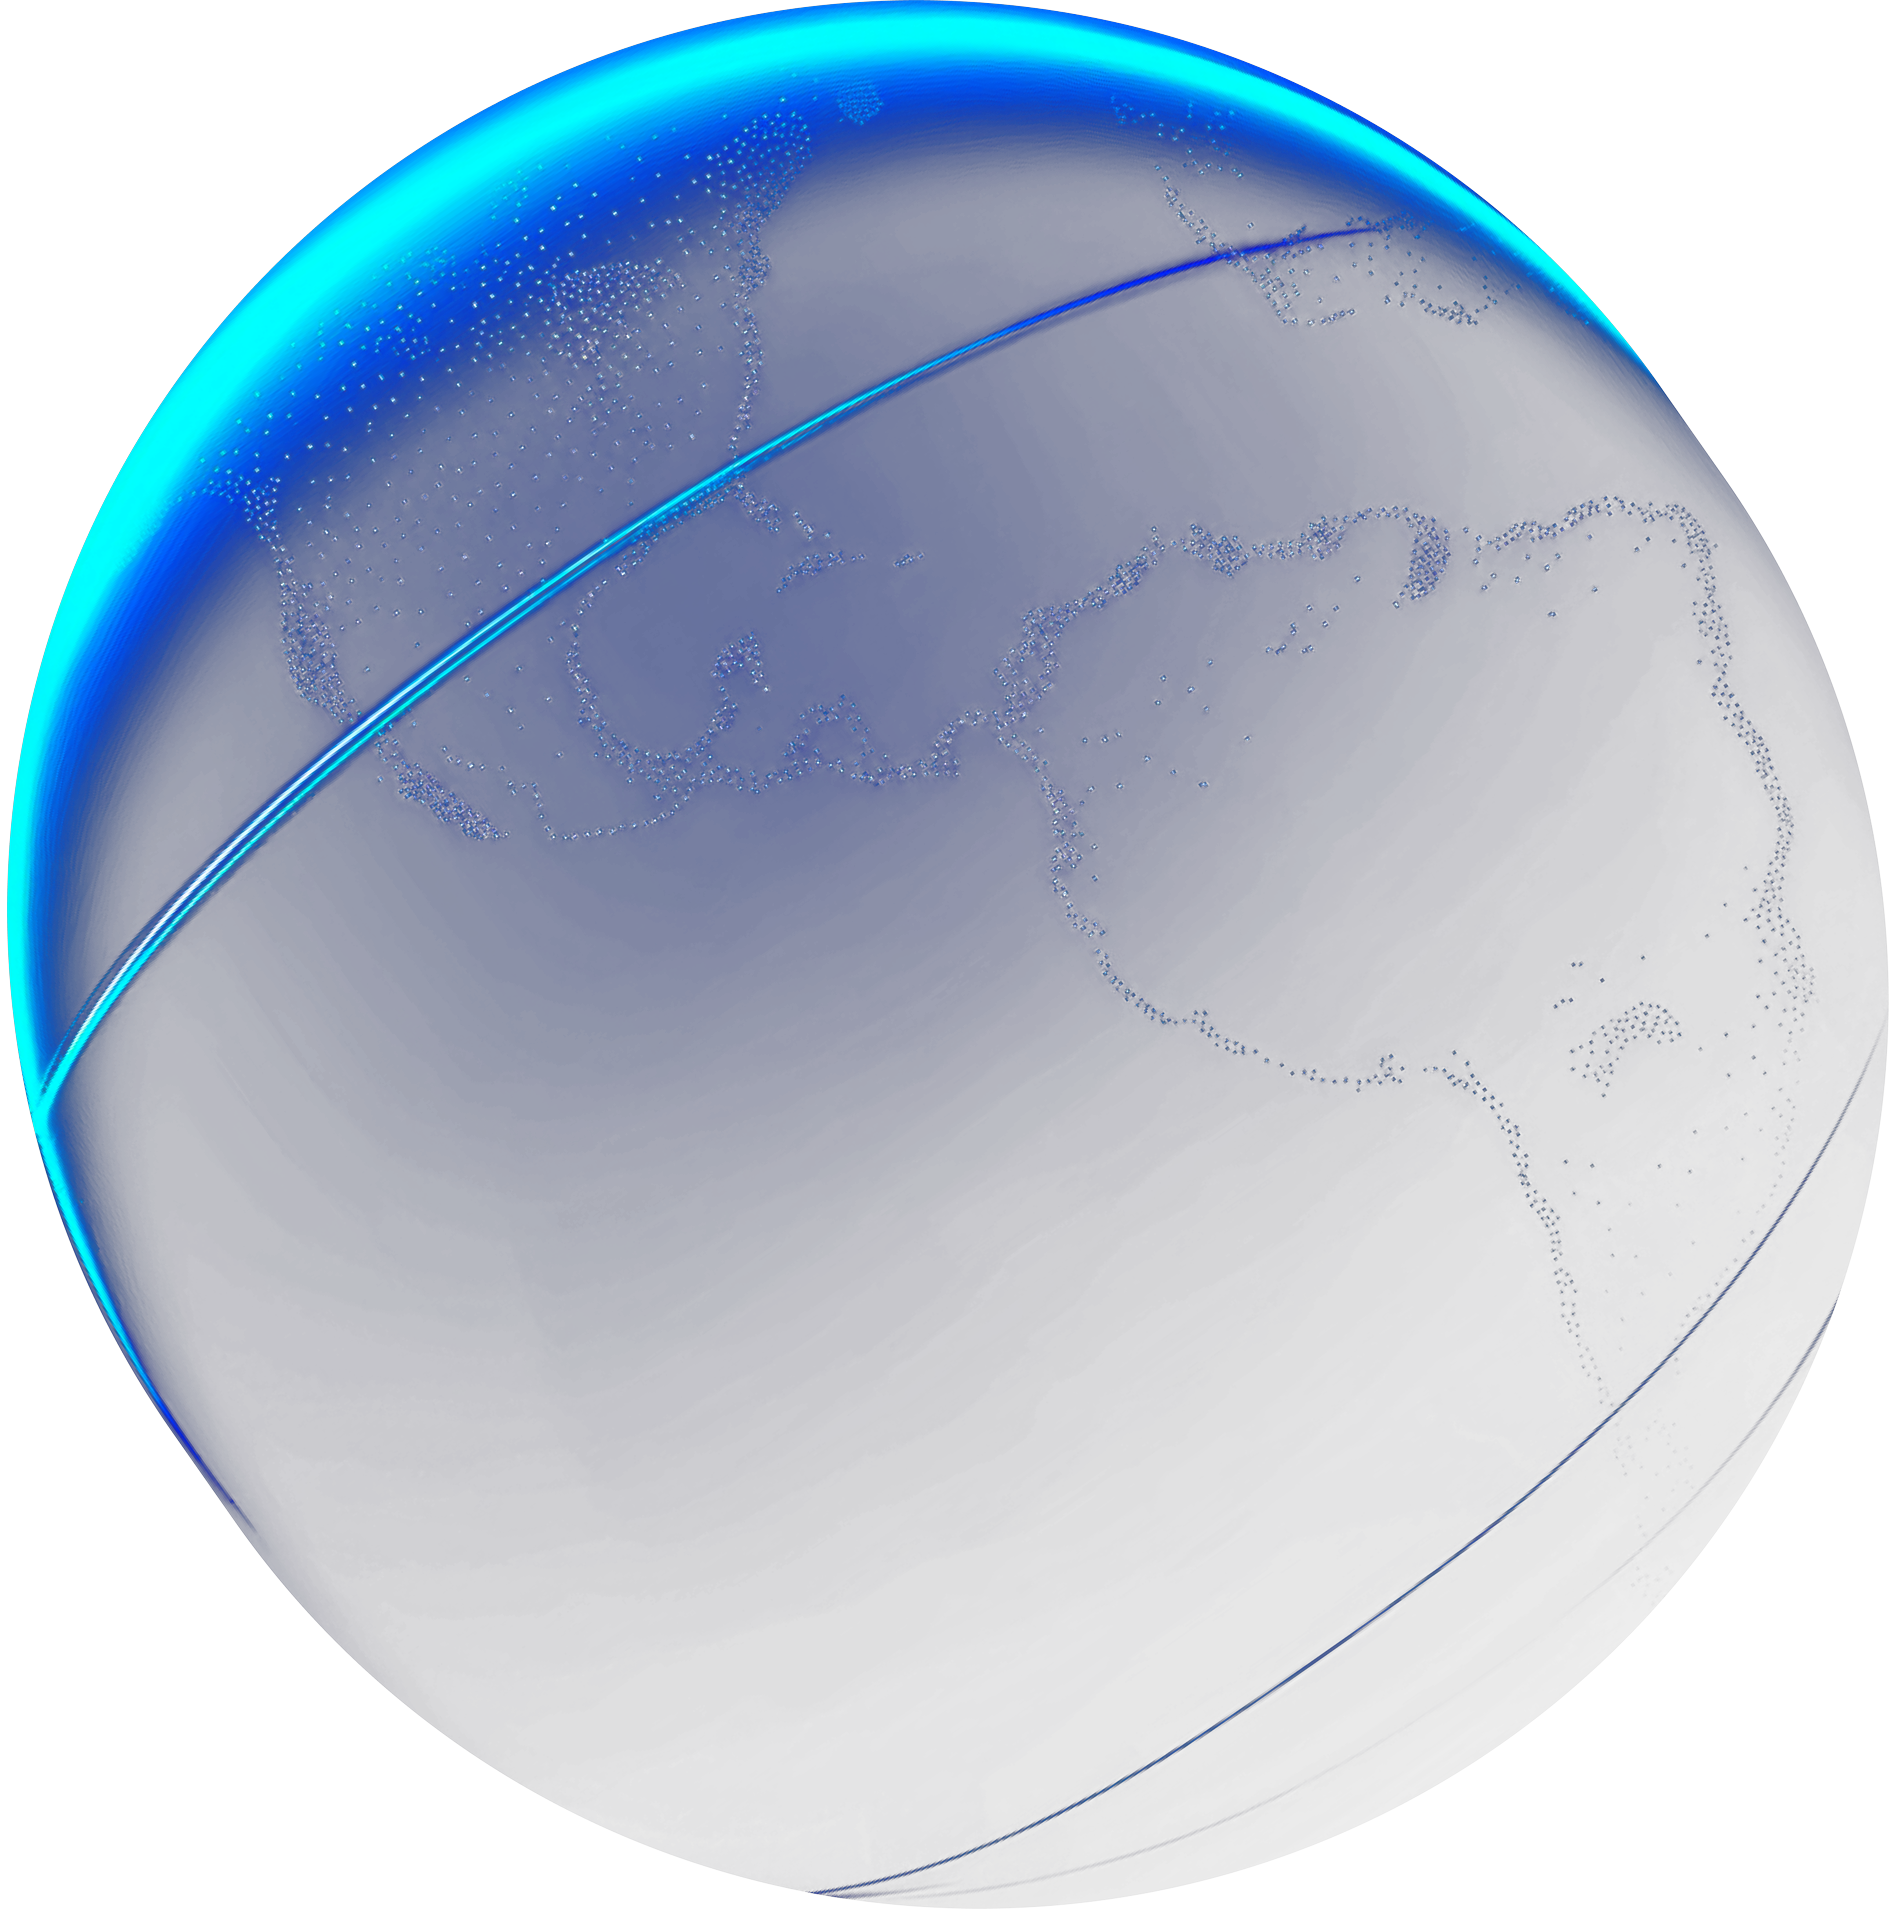
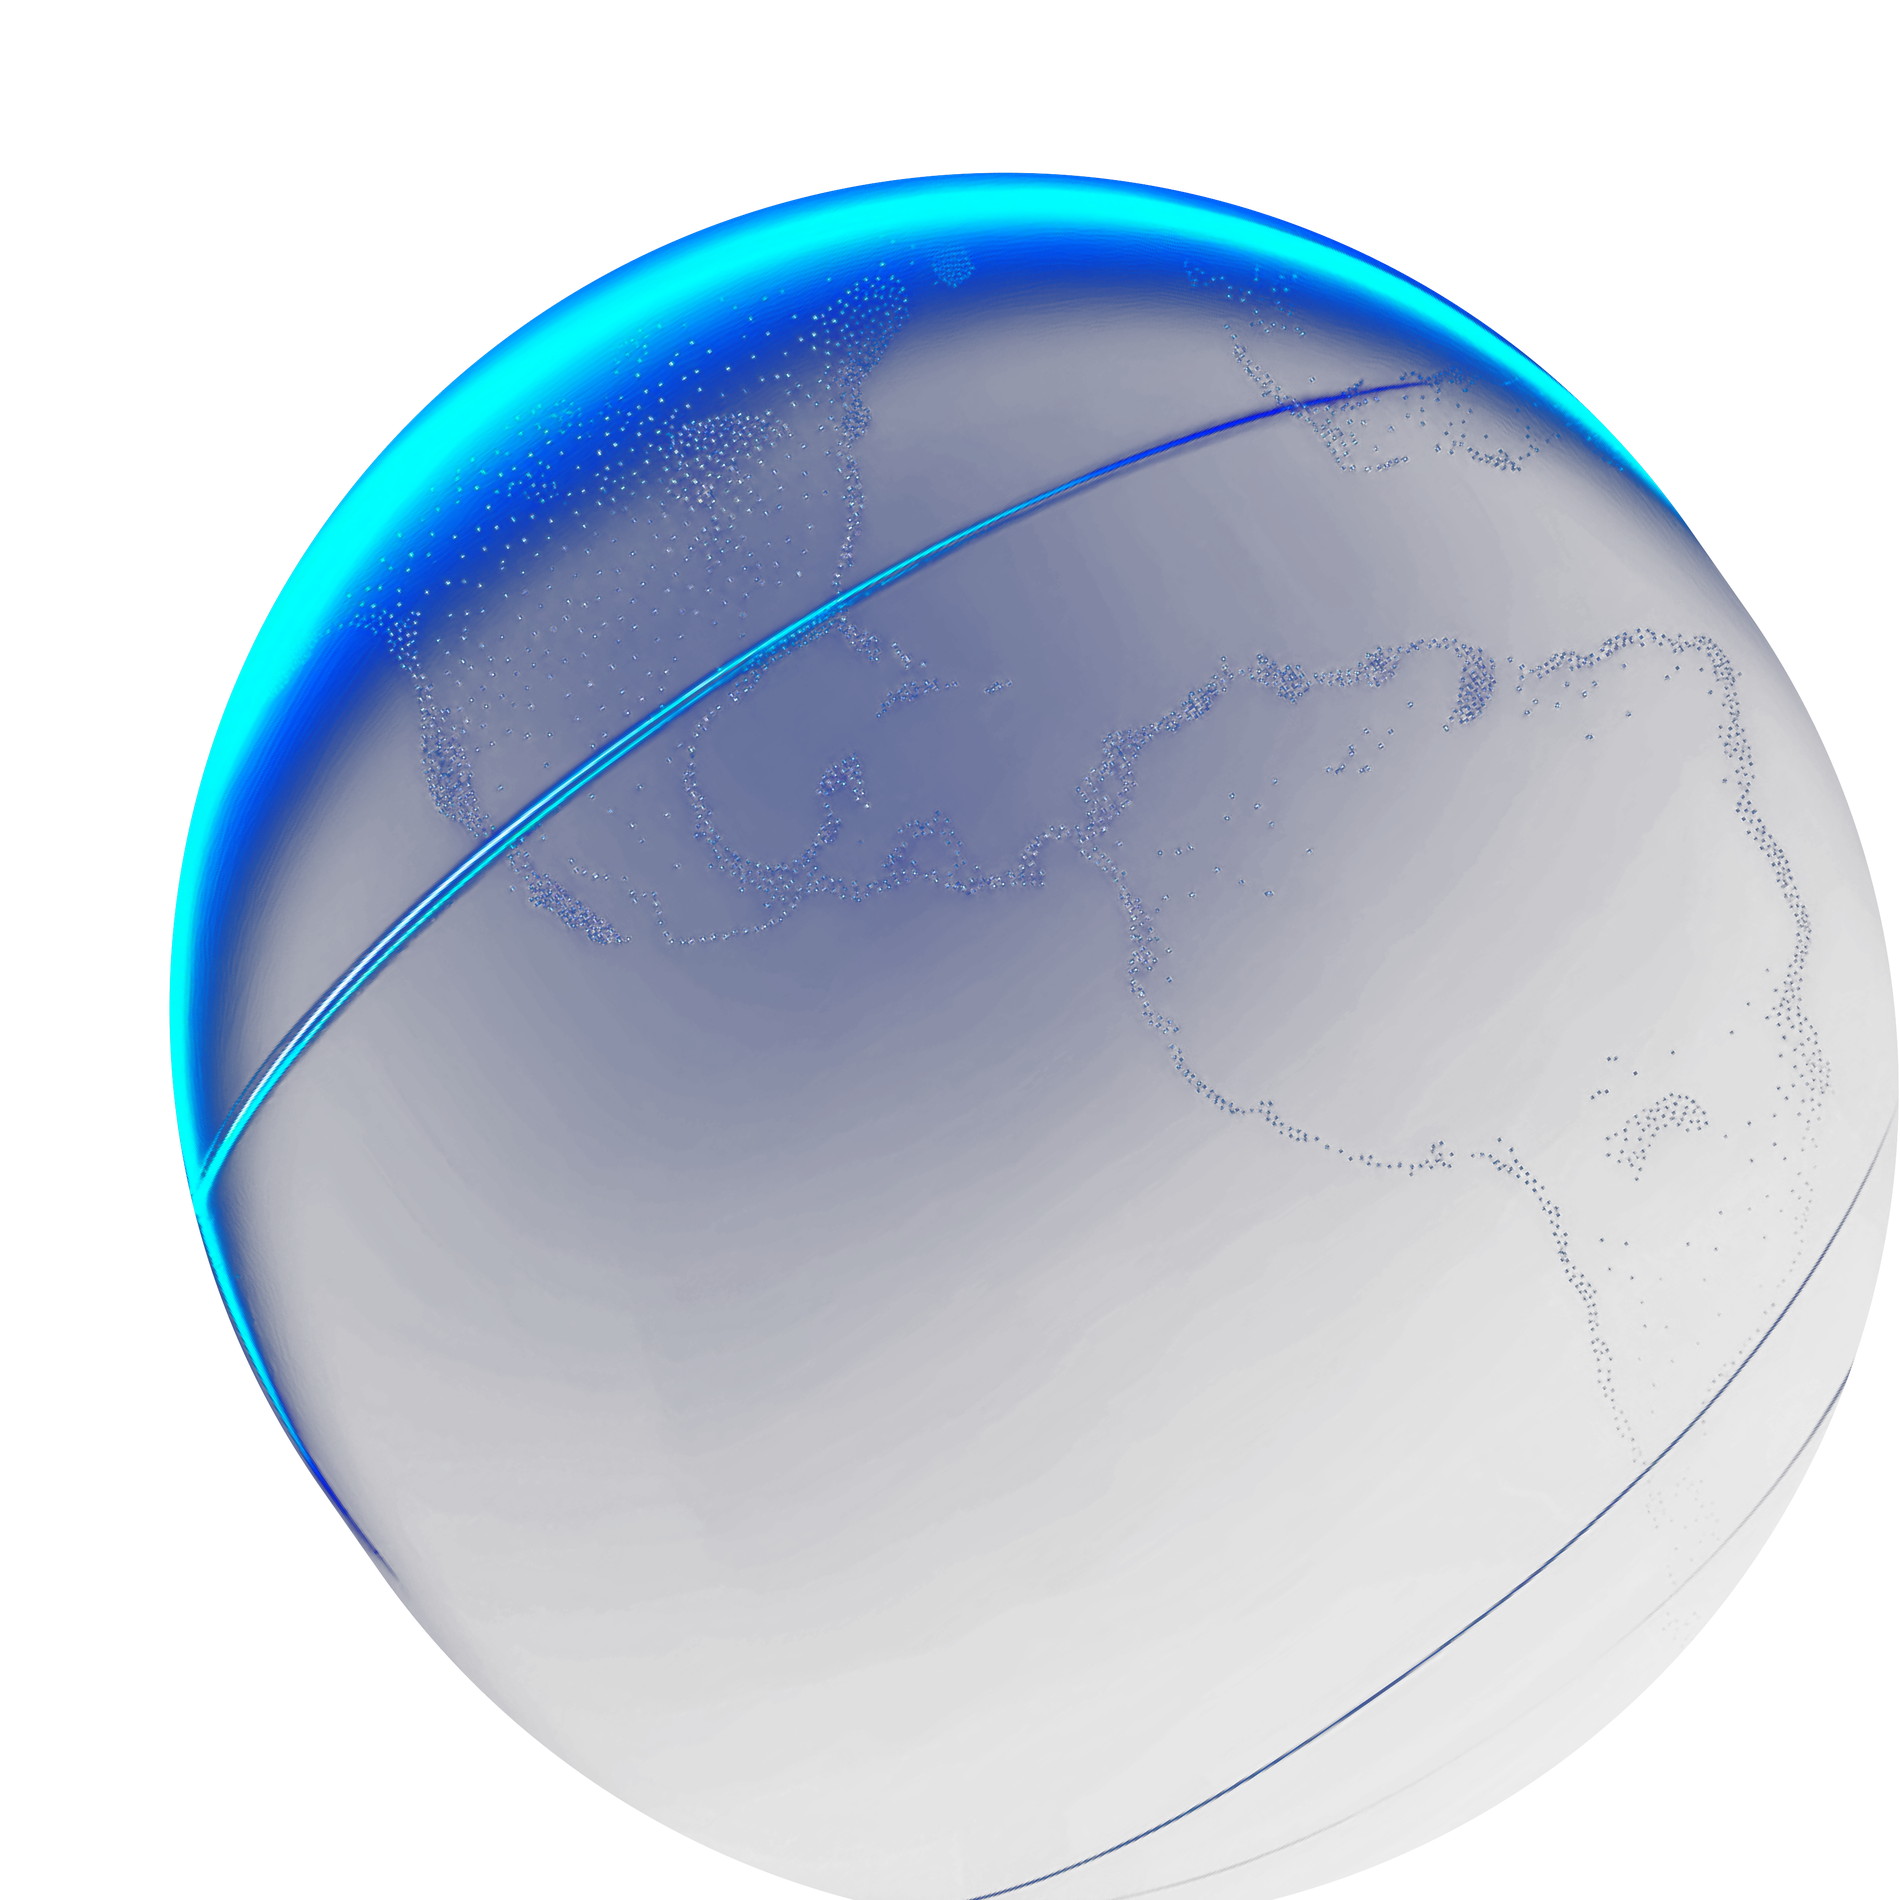
Recenter hero planet asset so it lands in middle of hero
The Figma export placed the sphere in the upper-left of its canvas, so
object-fit: cover was showing only the top portion of the sphere with
empty space below. Repacked the sphere into a 1900x1900 square with the
geometric center at the canvas center, so the default object-position:
center now matches the Figma mockup.

diff --git a/components/Hero/Hero.tsx b/components/Hero/Hero.tsx
@@ -13,8 +13,8 @@ export function Hero() {
         <Image
           src="/images/hero-orbit.avif"
           alt=""
-          width={1896}
-          height={1909}
+          width={1900}
+          height={1900}
           priority
           fetchPriority="high"
           quality={70}